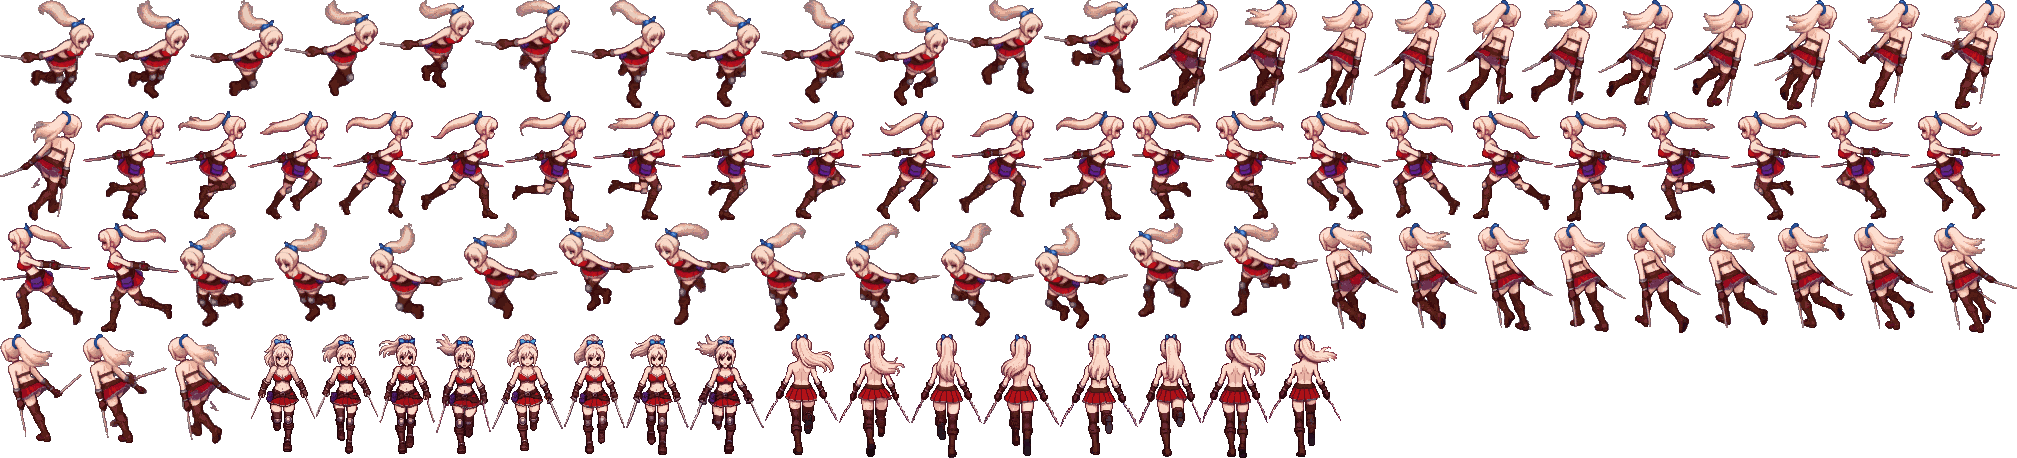
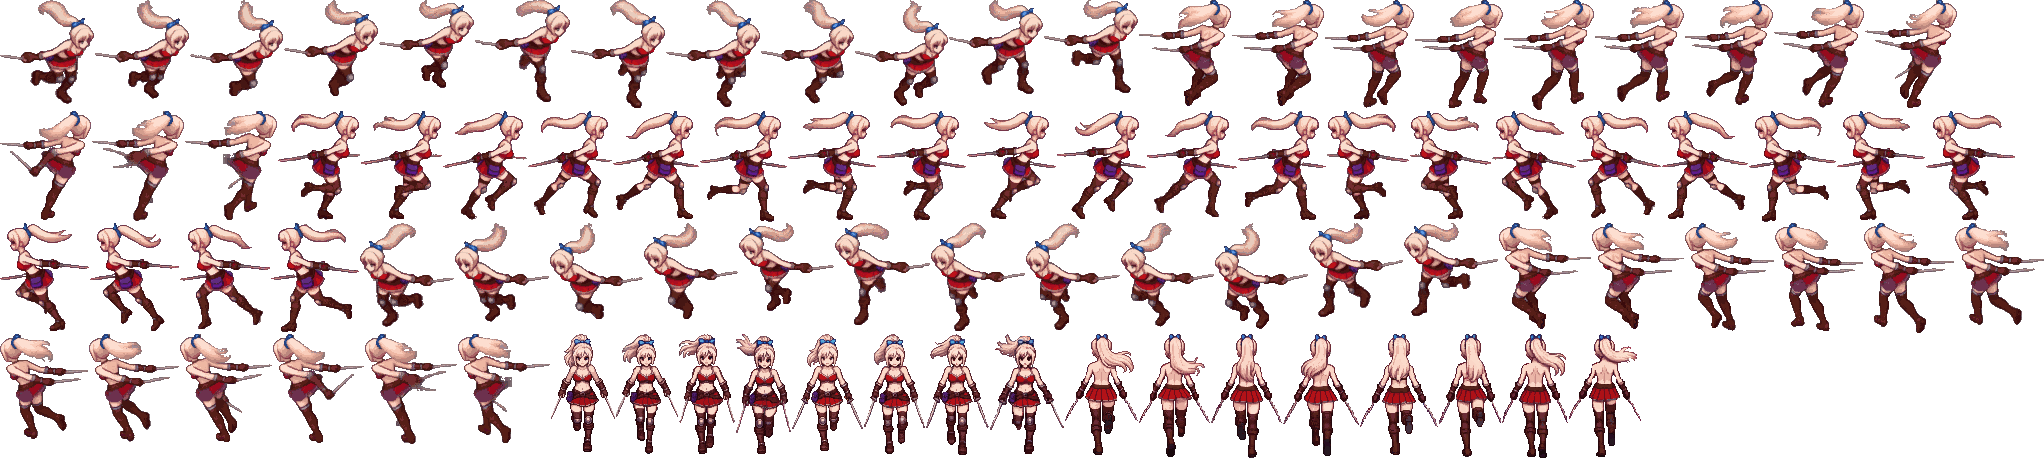
handoff: up-diagonal side-arm clips back in the atlas
Claude-Session: https://claude.ai/code/session_016rTuiBLHccbMGyHtTkdTn7

diff --git a/handoff/claude/linette_final_v1/assemble.py b/handoff/claude/linette_final_v1/assemble.py
@@ -47,6 +47,8 @@ for _m,_t in (('walk',[5]*8),('run',[4]*8)):   # 10-21: runs + back walk = CMU m
 KN=B+'/linette_ns_keys_v1'   # owner 10-21 "2번 해라 ... 인간의 자연스러운 움직임": front/back walk + run = 2 PixelLab key poses (edit-images-v2) + PixelLab in-betweens (animate-with-text-v3), cycle_ns.py
 SRC['walk']['south']=(f'{KN}/walk_south_keys',None,[6]*8);SRC['walk']['north']=(f'{KN}/walk_north_keys',None,[6]*8)
 SRC['run']['south']=(f'{KN}/run_south_keys',None,[4]*8);SRC['run']['north']=(f'{KN}/run_north_keys',None,[4]*8)
+for _m in ('idle','walk','run'):   # owner 10-21 "대각선 이상": up-diagonal = hero diagonal skeleton + side-clip arms (generated 10-20, put back now that diagonals are used for diagonal input)
+    SRC[_m]['up']=(f'{SK}/{_m}_north-east_sidearms',None,SRC[_m]['up'][2])
 SRC['rjump']={'right':(f'{SK}/rjump_east_v2',None,[3]*12)}   # owner 10-20: running jump = the hero's own rjump skeleton (CMU 127_25, frames 2-13) refit to Linette, run arms kept (v1 from estimated hero frames was too crouched); side only (left mirrored)
 SRC['cast']['down']=(V1+'/cast/south-east',None,[5]*9); SRC['cast']['up']=(V1+'/cast/north-east',None,[5]*9)   # owner 10-20: diagonal cast (down-right / up-right; mirrored -> downl/upl)
 man={'_doc':'Linette (PixelLab 7e26e0f3, 117px) motion set v1. frames/<motion>/<dir>/NNN.png, 256x256, feet root (128,189). left = right mirrored. ticks @60fps per frame.','motions':{}}
